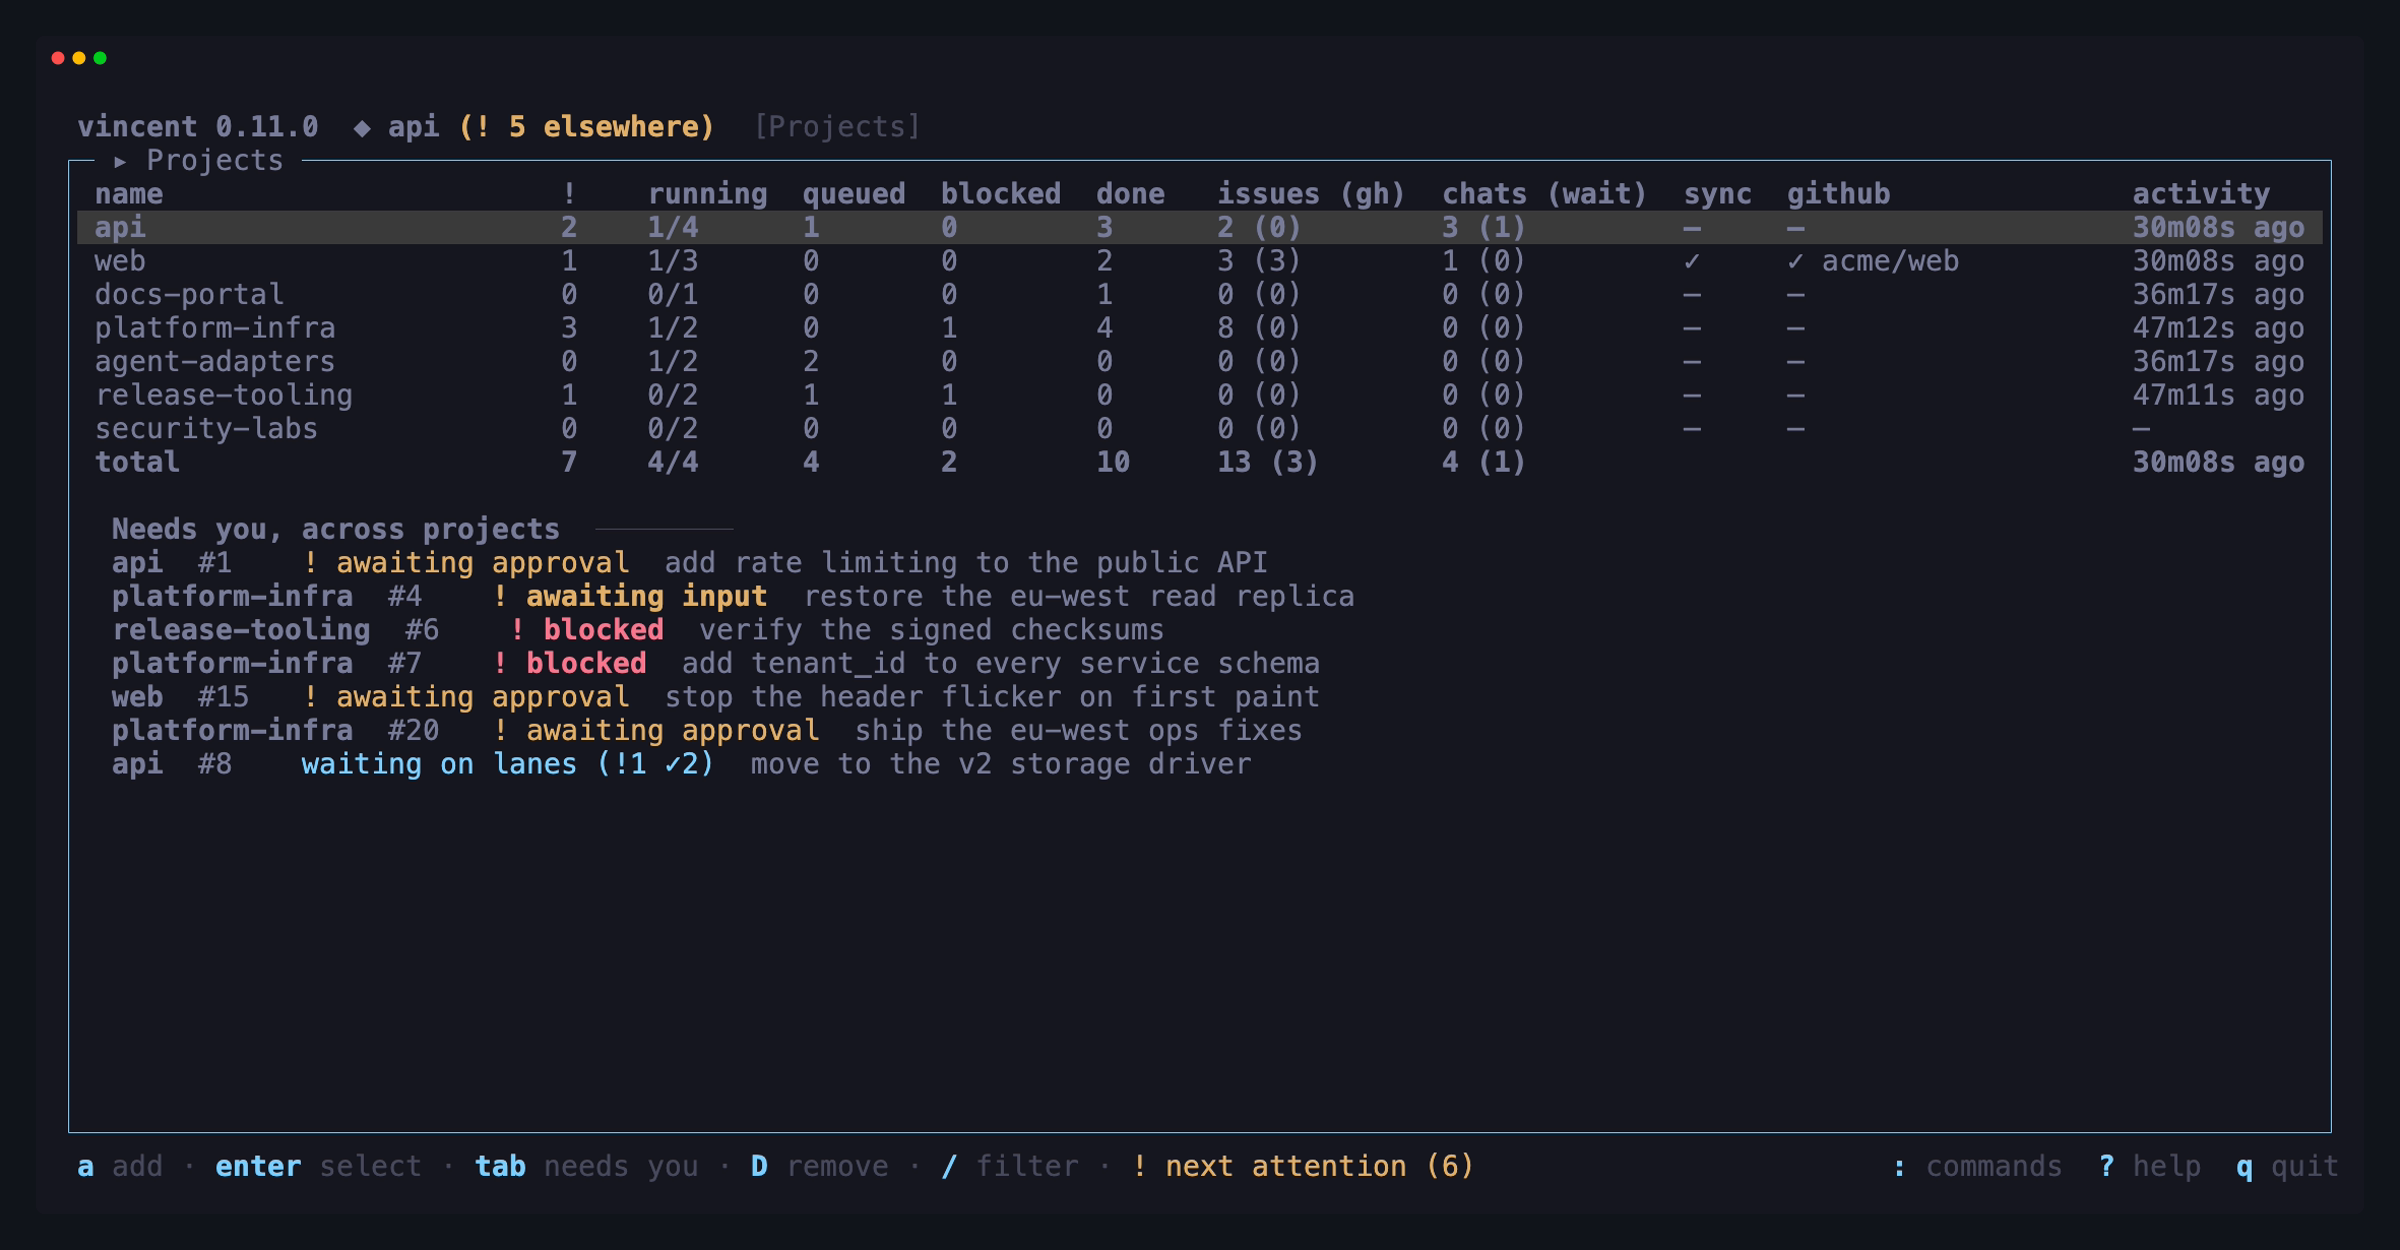
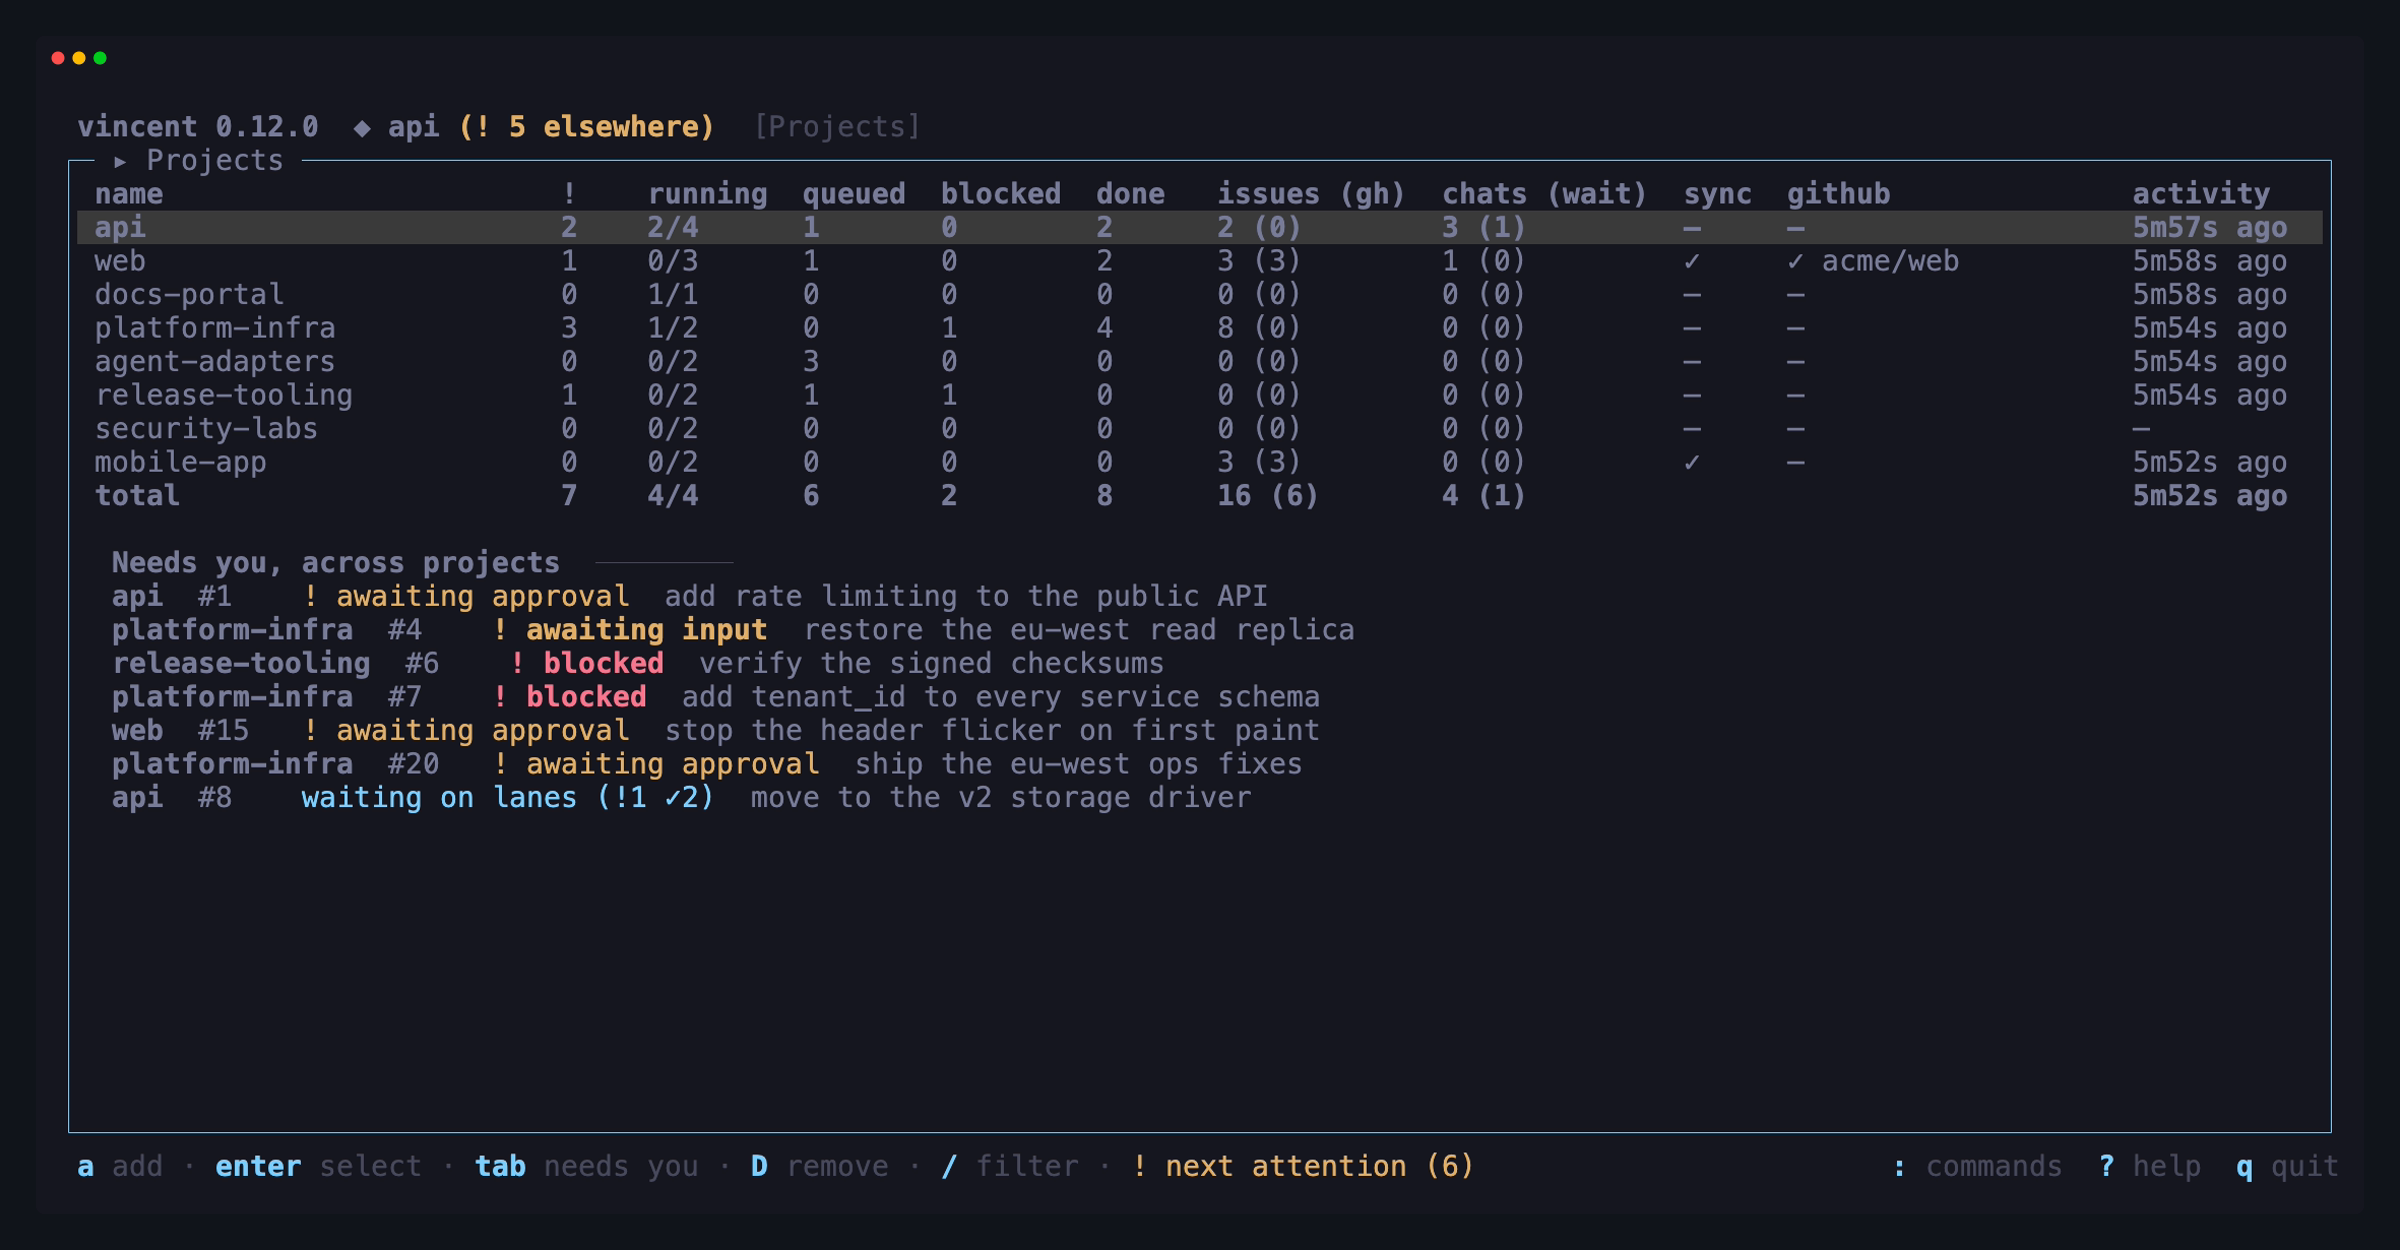
docs: seed a Jira-bound project in the screenshots and capture tui-issue-jira (142.20)

diff --git a/CLAUDE.md b/CLAUDE.md
@@ -238,13 +238,15 @@ exit 126 before running an assertion.
 `scripts/screenshots.sh` is the other seeding script, and the **only** source of
 the images under `docs/assets/tui-*.png`. It seeds a throwaway installation —
 its own config and data dirs, its own `$HOME` (so the skills and status-line
-rows are the seed's, not yours), seven git repos (one a GitHub project, answered
-by `cmd/fakegh`), a daemon, twenty-six tasks (a two-round fan-out with three
+rows are the seed's, not yours), eight git repos (one a GitHub project, answered
+by `cmd/fakegh`, and one a Jira-bound project, answered by `cmd/fakejira`),
+a daemon, twenty-six tasks (a two-round fan-out with three
 lanes, a loop and a handoff's task among them, three archived, eight started from an
 issue), eleven chats (four live, three archived — one of them on an issue —
-one closed on an issue and three closed on a task) and sixteen issues
-(thirteen local, three of them closed, and three imported from the fake GitHub
-with a mirrored thread, platform-infra's filling every lane) covering every
+one closed on an issue and three closed on a task) and twenty issues
+(thirteen local, three of them closed; three imported from the fake GitHub
+with a mirrored thread; four imported from the fake Jira, one with a mirrored
+thread and one closed there as Won't Do; platform-infra's filling every lane) covering every
 state — and photographs the running TUI with VHS
 (`brew install vhs`).
 Documentation never draws a screen: no ASCII mock-ups of panels, no hand-written

diff --git a/docs/guides/tui.md b/docs/guides/tui.md
@@ -1849,8 +1849,9 @@ project's repository and execution defaults show beside the table; a narrower
 one drops that pane first, then the columns from the right, keeping name, `!`
 and running to the last.
 
-![The project overview: seven registered repositories with their figures and a
-totals row, and the six tasks that need you across every project below
+![The project overview: eight registered repositories with their figures and a
+totals row — the Jira-bound mobile-app among them, its sync column showing a
+clean pass — and the seven tasks that need you across every project below
 them](../assets/tui-project-overview.png)
 
 | Key | Does |
@@ -2117,6 +2118,14 @@ kind, priority and author, the description rendered as Markdown, two comments
 marked `· github`, the Main worktree section naming the branch and the task
 holding it at its gate, the Work line counting that task and no chats, and
 the Source section](../assets/tui-issue.png)
+
+An issue imported from Jira reads the same way, under its Jira key:
+
+![The detail of MOB-7, an issue imported from Jira: its labels, kind and
+author, `source MOB-7` and its sync state, the description, the two public
+comments marked `· jira`, the Work line with no task or chat yet, and the
+Source section naming the provider, the key, the browse URL on the Jira site
+and the remote state](../assets/tui-issue-jira.png)
 
 | Key | Does |
 |---|---|

diff --git a/docs/tasks/142-jira-issue-sync.md b/docs/tasks/142-jira-issue-sync.md
@@ -161,9 +161,15 @@ lists only the hard dependencies the parent records as "Blocked by".
   TUI guides, security, privacy, the FAQ and `_data/seo_pages.json` name Jira
   where they were GitHub-only. The overview's `issues (gh)` header is left
   in code and documented as printed. ✓ 2026-11-06
-- [ ] **142.20** ([#916](https://github.com/lezli01/vincent/issues/916)) A
+- [x] **142.20** ([#916](https://github.com/lezli01/vincent/issues/916)) A
   Jira-bound project seeded in `scripts/screenshots.sh`, and the issue shots
-  recaptured. Depends: 142.12, 142.8, 142.14.
+  recaptured. Depends: 142.12, 142.8, 142.14. Done: an eighth repository,
+  `mobile-app`, bound to `cmd/fakejira`'s MOB project (four issues imported,
+  MOB-7's two public comments mirrored and its restricted one skipped, MOB-4
+  closed there as Won't Do and here as not planned); the new
+  `tui-issue-jira.png` (the author's answer to #916: a dedicated
+  shot, not a mixed list), and `tui-project-overview.png`, `tui-project-picker.png` and
+  `tui-daemon-config.png` recaptured. ✓ 2026-11-06
 
 ## Decisions (2026-11-03)
 

diff --git a/docs/tasks/README.md b/docs/tasks/README.md
@@ -155,7 +155,7 @@ the living engineering specification records implementation contracts.
 | [139](139-privacy-policy.md) | A published privacy policy, and `PrivacyUrl` in the WinGet manifest | 🔄 in progress (3/4) |
 | [140](140-chat-on-an-issue.md) | A chat on an issue: it holds the issue's main worktree, moves it to in progress, and hands off into a main task | ✅ done (11/11) |
 | [141](141-copilot-acp.md) | Investigating `copilot --acp` for mid-run input and skill listing: listing no, input not yet | ✅ done (6/6) |
-| [142](142-jira-issue-sync.md) | Jira issue sync: Jira Cloud issues in a project's issue set, at parity with GitHub issue sync | 🔄 in progress (17/20) |
+| [142](142-jira-issue-sync.md) | Jira issue sync: Jira Cloud issues in a project's issue set, at parity with GitHub issue sync | 🔄 in progress (18/20) |
 | [143](143-auto-archive-on-issue-close.md) | Auto-archive a closed issue's tasks | ✅ done (5/5) |
 | [144](144-issue-work-tab.md) | An `Issue \| Work` tab strip on the issue detail, listing every task and chat of the issue | ✅ done (1/1) |
 

diff --git a/docs/guides/jira.md b/docs/guides/jira.md
@@ -98,6 +98,11 @@ JQL. Each later pass, every
 [`jira.poll_interval`](../reference/configuration.md#jira) (5 minutes by
 default), reads what changed since the last one, closed issues included.
 
+![An issue imported from Jira in the TUI: MOB-7 with its labels, `source
+MOB-7`, its sync state, the description, the two public comments mirrored
+from Jira and marked `· jira` — a third, restricted to a role, is not among
+them — and the Source section with the Jira browse URL](../assets/tui-issue-jira.png)
+
 - **Open or closed.** A Jira issue is closed in vincent if and only if its
   status is in Jira's *Done* category. Every other status — *To Do*,
   *In Progress*, *In Review*, any custom one — is open. The resolution never

diff --git a/README.md b/README.md
@@ -103,7 +103,7 @@ daemon — not a mockup, and not a drawing of one.
 </p>
 
 <p align="center">
-  <img src="docs/assets/tui-project-overview.png" alt="The project overview showing seven repositories with their figures, a totals row, and the tasks that need you across every project" width="1000">
+  <img src="docs/assets/tui-project-overview.png" alt="The project overview showing eight repositories with their figures, a totals row, and the tasks that need you across every project" width="1000">
 </p>
 
 <p align="center">
